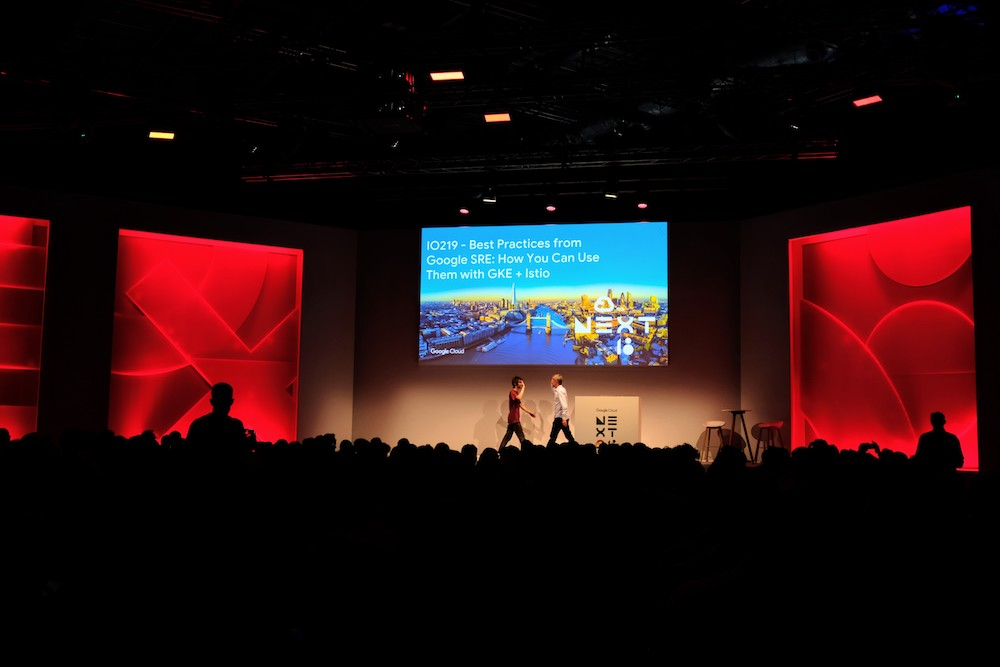
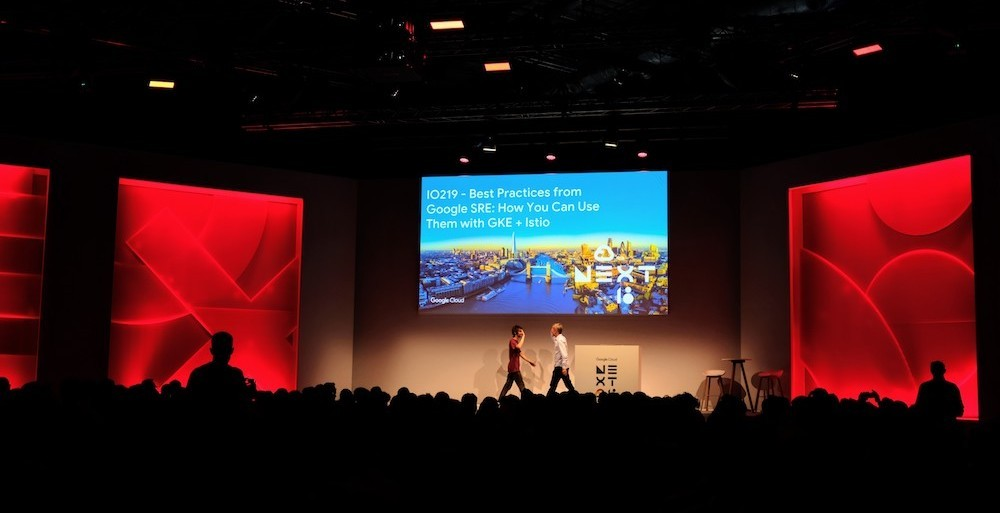
Update talk links to public and set image sizes

diff --git a/content/talks/mattias-cfgmgmtcamp-19.md b/content/talks/mattias-cfgmgmtcamp-19.md
@@ -1,12 +1,17 @@
 ---
 title: "Tarmak: Why do we need another Kubernetes provisioner?"
 person: Mattias Gees
-event: Config Management Camp, Belgium 
-slides_link: https://docs.google.com/presentation/d/1iXyqfMP-xi8xmG3jfLK_SH3cHIV0Holz9l2gZUwK0pY/edit?usp=drive_web&ouid=104879441920464330250
+event: Config Management Camp, Belgium
+slides_link: https://docs.google.com/presentation/d/1iXyqfMP-xi8xmG3jfLK_SH3cHIV0Holz9l2gZUwK0pY/edit?usp=sharing
 video_link: https://www.youtube.com/watch?v=xtc88sbUnkM
 date: 2019-02-05
 ---
 
-Tarmak is an open-source toolkit for Kubernetes cluster lifecycle management. It is focused on best-practice cluster security, management and operation. This talk will clarify the reasoning behind creating Tarmak, the architecture and technologies used.
+Tarmak is an open-source toolkit for Kubernetes cluster lifecycle management. It
+is focused on best-practice cluster security, management and operation. This
+talk will clarify the reasoning behind creating Tarmak, the architecture and
+technologies used.
 
-With Tarmak we tried to not reinvent the full wheel, that is why we have chosen to depend on a lot open-source tools (Terraform, Puppet, Vault, …). This talk will explain how all of this is tied together.
+With Tarmak we tried to not reinvent the full wheel, that is why we have chosen
+to depend on a lot open-source tools (Terraform, Puppet, Vault, …). This talk
+will explain how all of this is tied together.

diff --git a/content/talks/james-kubecon-2018.md b/content/talks/james-kubecon-2018.md
@@ -2,7 +2,7 @@
 title: "cert-manager: native certificate management for Kubernetes"
 person: James Munnelly
 event: Kubecon Europe 2018
-slides_link: https://docs.google.com/presentation/d/1Zg1LnkBNAql373vSh8zZBUvgpD2Qsfp_oJ1X8zVV4tk/edit#slide=id.g221fc420d8_0_61
+slides_link: https://docs.google.com/presentation/d/1Zg1LnkBNAql373vSh8zZBUvgpD2Qsfp_oJ1X8zVV4tk/edit?usp=sharing
 video_link: https://www.youtube.com/watch?v=TuIycZeiNZM&feature=youtu.be
 date: 2018-05-04
 ---

diff --git a/content/talks/christian-kubecon-2018.md b/content/talks/christian-kubecon-2018.md
@@ -2,7 +2,7 @@
 title: "Why running kubelet on your vacuum is (not) a good idea"
 person: Christian Simon
 event: Kubecon Europe 2018
-slides_link: https://drive.google.com/drive/folders/1V6oynSi611IwsMsNbvKroSqQAU0XGQ6t
+slides_link: https://drive.google.com/file/d/1XcyBcSFlVCjJ8R5j6vggnLfK51YXY07s/view?usp=sharing
 video_link: https://www.youtube.com/watch?v=ea0UzDpk6PE&feature=youtu.be
 date: 2018-05-04
 ---

diff --git a/content/talks/bates-next-18.md b/content/talks/bates-next-18.md
@@ -2,8 +2,8 @@
 title: "Microservices & Monoliths"
 person: Matt Bates
 event: Google NEXT London 2018
-slides_link: https://docs.google.com/presentation/d/14-roGaAS8C3sDv8WktbXMzwmJw8cez4CUvx-Eoh6nLY/edit#slide=id.g417ffbdb2b_0_87
-video_link: 
+slides_link: https://docs.google.com/presentation/d/14-roGaAS8C3sDv8WktbXMzwmJw8cez4CUvx-Eoh6nLY/edit?usp=sharing
+video_link:
 date: 2018-10-11
 ---
 
